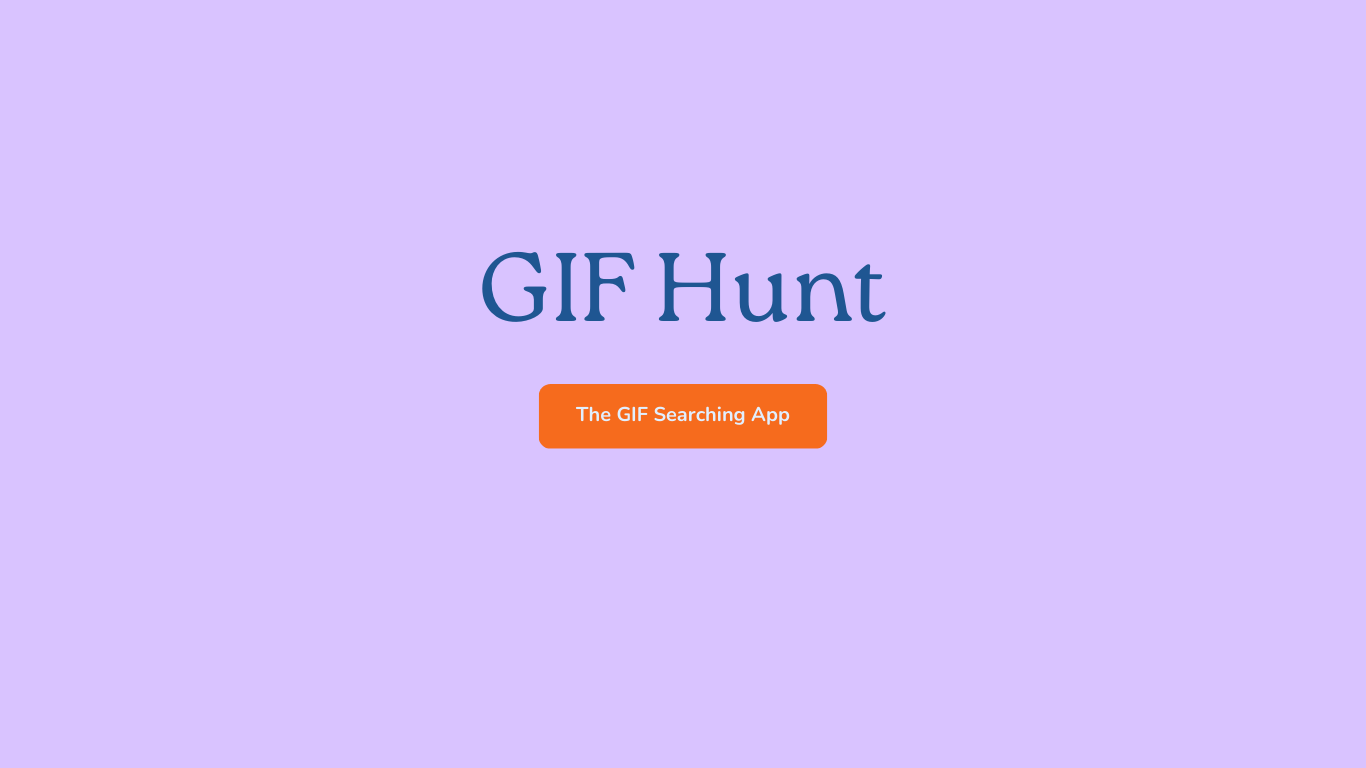
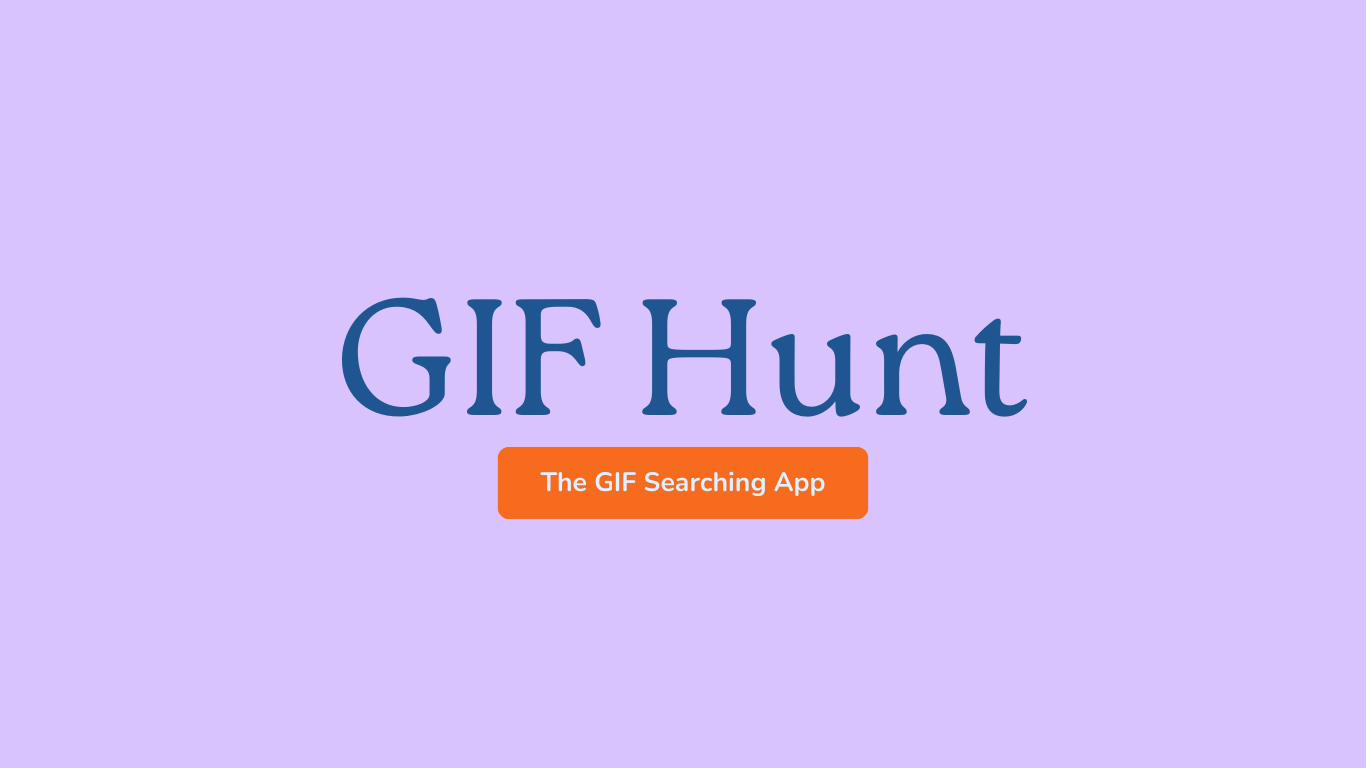
UI Bug Fixed

Changed region(s): [[0.246, 0.3125, 0.7687, 0.6875]]

diff --git a/index.html b/index.html
@@ -15,7 +15,7 @@
         display: flex;
         justify-content: center;
         align-items: center;
-        height: 100%;
+        height: 100vh;
         background-color: black;
       }
       .container {
@@ -70,7 +70,6 @@
         let searchedWord = inputbox.value;
         if (searchedWord) {
           fetchGIF(searchedWord);
-          fetch;
         } else {
           gifDisplay.src = "Assets/Warning.webp";
         }
